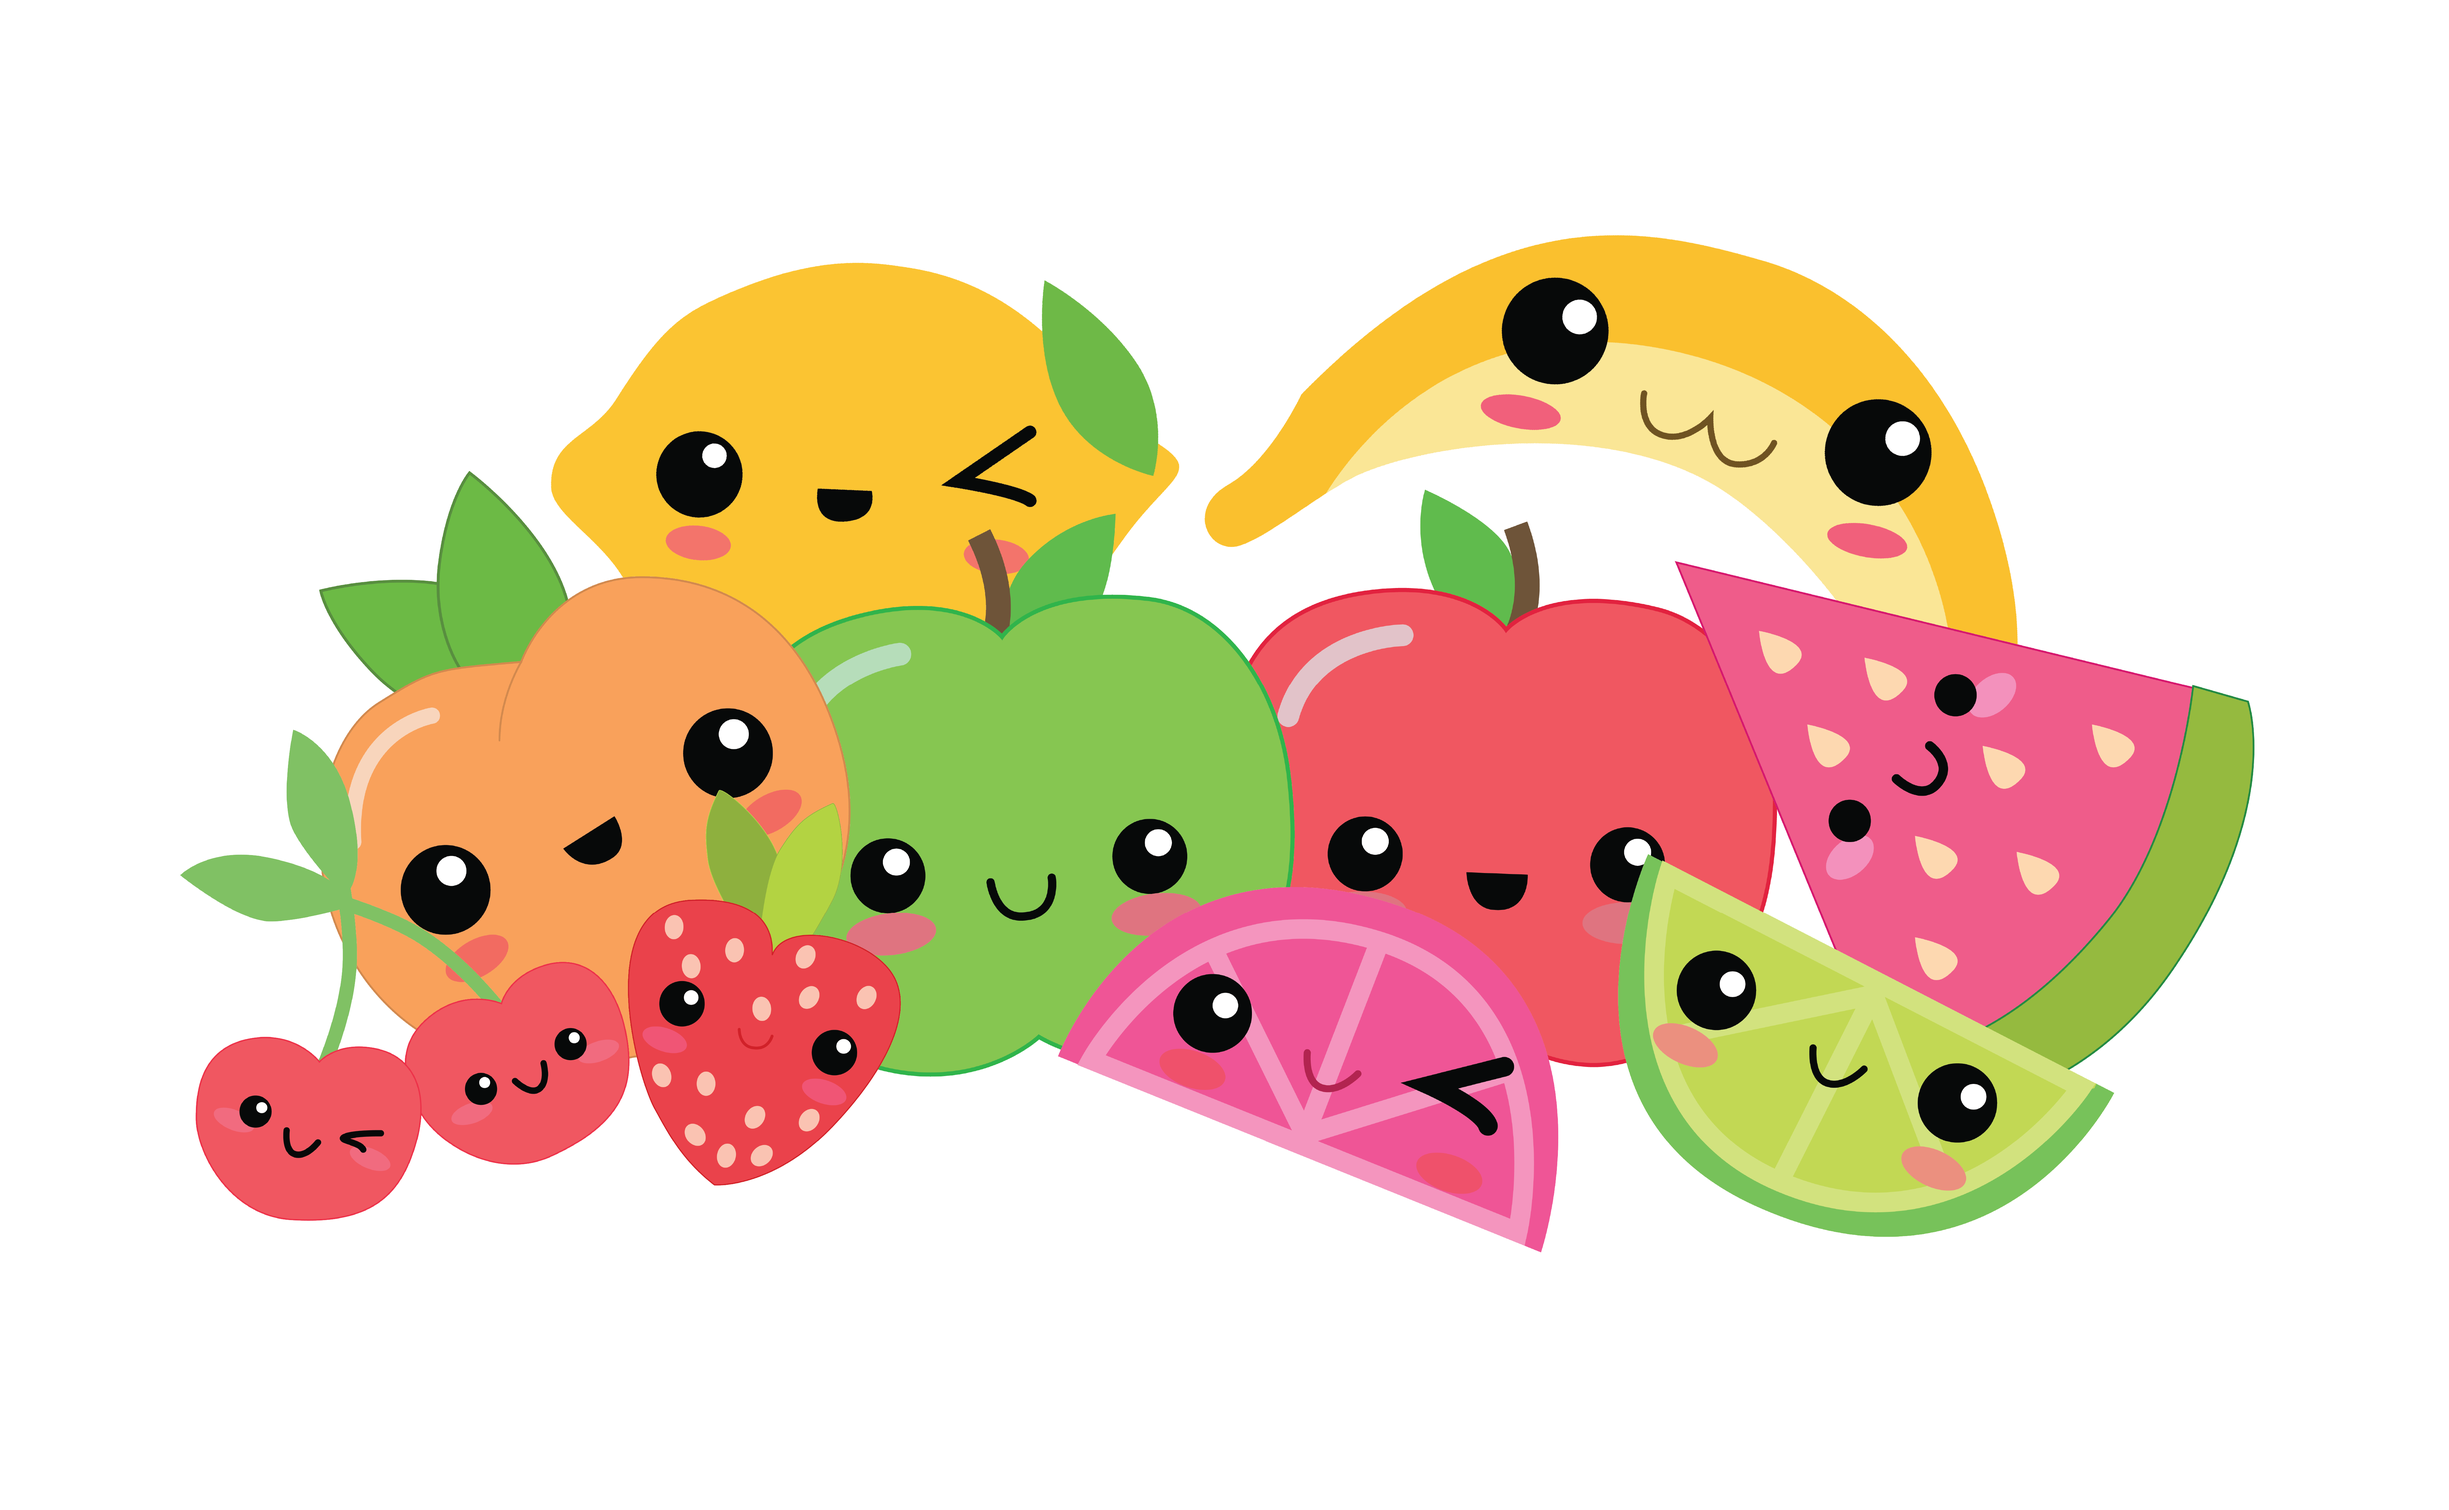
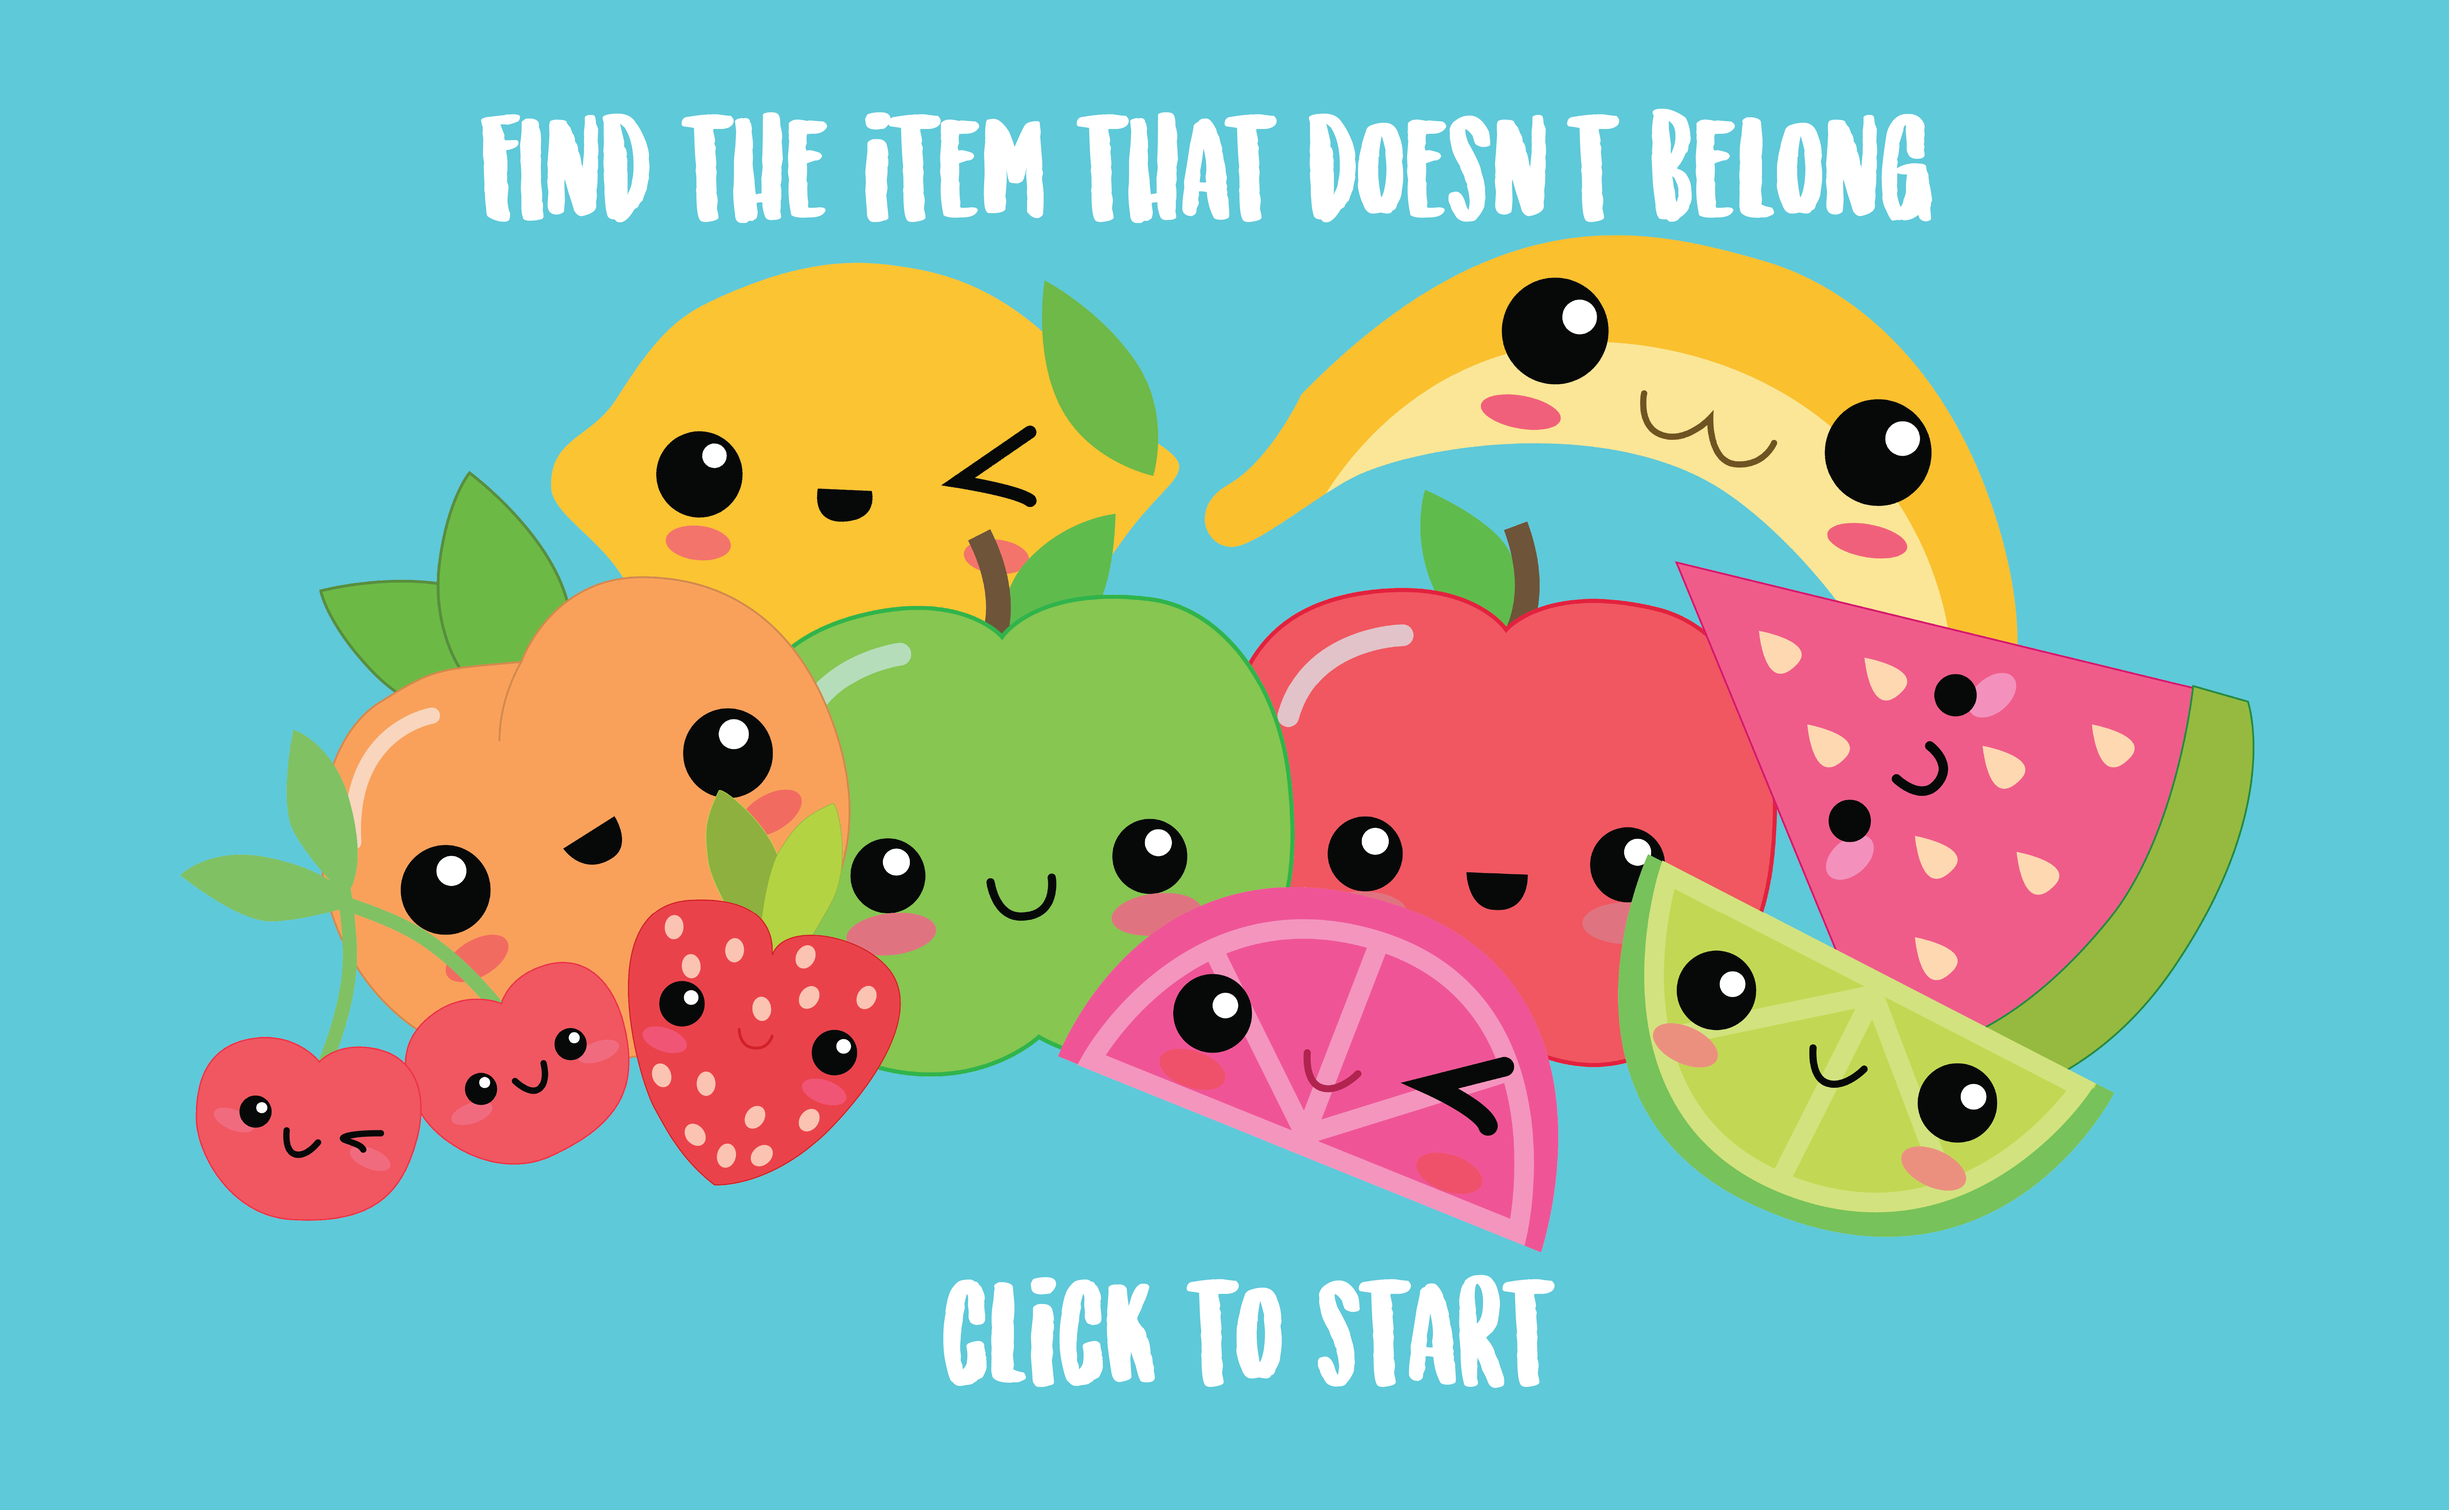
E1: Clicking at start state will begin game

diff --git a/exercises/wheres-sausage-dog/js/script.js b/exercises/wheres-sausage-dog/js/script.js
@@ -33,7 +33,7 @@ function preload() {
 // Loading all state images
 startImage = loadImage("assets/images/start.png");
 failureImage = loadImage("assets/images/failure.png");
-successImage = loadImage("assets/images/success.jpg");
+successImage = loadImage("assets/images/success.png");
 
   for (let i = 0; i < NUM_FRUIT_IMAGES; i++) {
       let fruitImage = loadImage(`assets/images/fruit${i}.png`)
@@ -79,9 +79,15 @@ function draw() {
   } else if (state === `success`) {
     success();
   }
+}
+
+function start() {
+  background(startImage);
+}
+
+function simulation() {
   // Light blue background
   background(52, 225, 235);
-
   for (let i = 0; i < fruits.length; i++) {
     fruits[i].update();
   }
@@ -89,8 +95,21 @@ function draw() {
   pizza.update();
 }
 
+function failure() {
+
+}
+
+function success() {
+
+}
+
 function mousePressed() {
   pizza.mousePressed();
+
+  // When mouse is pressed, state changes from `start` to `simulation`
+  if (state === `start`) {
+    state = `simulation`;
+  }
 }
 
 
